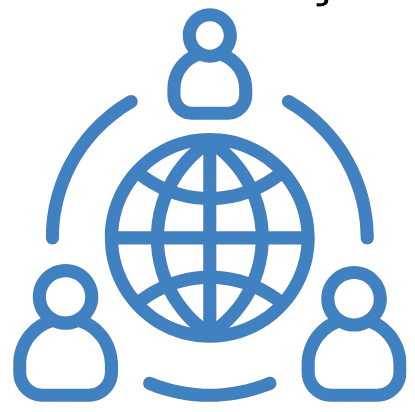
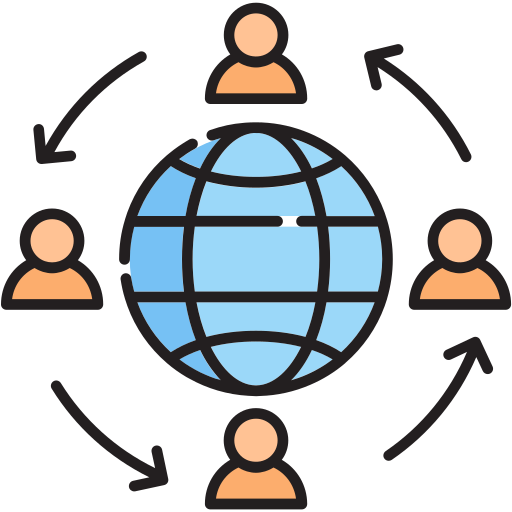
estilização - sobre

diff --git a/pagina_inicial/templates/sobre.html b/pagina_inicial/templates/sobre.html
@@ -1,294 +1,80 @@
+{% extends 'base.html' %}
 {% load static %}
-<!DOCTYPE html>
-<html lang="pt-BR">
-<head>
-    <meta charset="UTF-8">
-    <meta name="viewport" content="width=device-width, initial-scale=1.0">
-    <title>ConnecTerra - Sobre a Plataforma</title>
-    <link rel="preconnect" href="https://fonts.googleapis.com">
-    <link rel="preconnect" href="https://fonts.gstatic.com" crossorigin>
-    <link href="https://fonts.googleapis.com/css2?family=Inter:wght@400;500;600;700;800&display=swap" rel="stylesheet">
-    <style>
-        * {
-            margin: 0;
-            padding: 0;
-            box-sizing: border-box;
-        }
 
-        body {
-            font-family: 'Inter', sans-serif;
-            background: linear-gradient(180deg, #6FD666 0%, #4DB8A8 100%);
-            min-height: 100vh;
-            padding: 2rem 1rem;
-        }
+{% block content %}
+<div class="text-center mb-5">
+    <h1 class="display-4 fw-extrabold text-white text-uppercase" style="letter-spacing: 2px;">
+        Sobre a Plataforma
+    </h1>
+    <div class="mx-auto mt-2" style="width: 60px; height: 5px; background-color: white; border-radius: 10px;"></div>
+</div>
 
-        .container {
-            max-width: 1400px;
-            margin: 0 auto;
-        }
-
-        /* Header */
-        .header {
-            margin-bottom: 3rem;
-        }
-
-        .logo {
-            font-size: 2.5rem;
-            font-weight: 800;
-            color: white;
-            letter-spacing: -1px;
-            display: flex;
-            align-items: center;
-            gap: 0.5rem;
-            flex-wrap: wrap;
-        }
-
-        .logo-highlight {
-            background-color: white;
-            color: #6FD666;
-            padding: 0.25rem 1rem;
-            border-radius: 0.5rem;
-        }
-
-        .page-title {
-            font-size: 2.5rem;
-            font-weight: 300;
-            color: white;
-        }
-
-        /* Cards Grid */
-        .cards-grid {
-            display: grid;
-            grid-template-columns: repeat(auto-fit, minmax(320px, 1fr));
-            gap: 2rem;
-        }
-
-        .info-card {
-            background-color: white;
-            border-radius: 2rem;
-            padding: 2.5rem;
-            box-shadow: 0 10px 30px rgba(0, 0, 0, 0.1);
-            transition: all 0.3s ease;
-            display: flex;
-            flex-direction: column;
-            min-height: 500px;
-        }
-
-        .info-card:hover {
-            transform: translateY(-8px);
-            box-shadow: 0 20px 45px rgba(0, 0, 0, 0.15);
-        }
-
-        .card-title {
-            font-size: 1.5rem;
-            font-weight: 700;
-            color: #5BC55C;
-            margin-bottom: 1.5rem;
-            line-height: 1.3;
-        }
-
-        .card-description {
-            font-size: 1.05rem;
-            font-weight: 400;
-            color: #2C3E50;
-            line-height: 1.8;
-            margin-bottom: 2rem;
-            flex-grow: 1;
-        }
-
-        .card-icon-wrapper {
-            display: flex;
-            justify-content: center;
-            align-items: center;
-            margin-top: auto;
-            padding-top: 2rem;
-        }
-
-        .card-icon {
-            width: 180px;
-            height: 180px;
-            display: flex;
-            align-items: center;
-            justify-content: center;
-            font-size: 5rem;
-        }
-
-        .card-footer-text {
-            text-align: center;
-            font-size: 1rem;
-            font-weight: 700;
-            color: #3498DB;
-            text-transform: uppercase;
-            margin-top: 1rem;
-        }
-
-        /* Responsive */
-        @media (max-width: 1200px) {
-            .cards-grid {
-                grid-template-columns: repeat(2, 1fr);
-            }
-
-            .info-card:last-child {
-                grid-column: 1 / -1;
-                max-width: 600px;
-                margin: 0 auto;
-            }
-        }
-
-        @media (max-width: 768px) {
-            body {
-                padding: 1rem 0.5rem;
-            }
-
-            .logo {
-                font-size: 1.75rem;
-                flex-direction: column;
-                text-align: center;
-            }
-
-            .page-title {
-                font-size: 1.75rem;
-            }
-
-            .cards-grid {
-                grid-template-columns: 1fr;
-            }
-
-            .info-card {
-                min-height: auto;
-                padding: 2rem 1.5rem;
-            }
-
-            .info-card:last-child {
-                grid-column: auto;
-                max-width: 100%;
-            }
-
-            .card-title {
-                font-size: 1.25rem;
-            }
-
-            .card-description {
-                font-size: 0.95rem;
-            }
-
-            .card-icon {
-                width: 140px;
-                height: 140px;
-                font-size: 4rem;
-            }
-
-            .card-footer-text {
-                font-size: 0.9rem;
-            }
-        }
-
-        /* Animations */
-        @keyframes fadeInUp {
-            from {
-                opacity: 0;
-                transform: translateY(30px);
-            }
-            to {
-                opacity: 1;
-                transform: translateY(0);
-            }
-        }
-
-        .info-card {
-            animation: fadeInUp 0.6s ease-out backwards;
-        }
-
-        .info-card:nth-child(1) { animation-delay: 0.1s; }
-        .info-card:nth-child(2) { animation-delay: 0.2s; }
-        .info-card:nth-child(3) { animation-delay: 0.3s; }
-    </style>
-</head>
-<body>
-    <div class="container">
-        <!-- Header -->
-        <header class="header">
-            <div class="header-left">
-                <h1 class="logo">
-                    Connec<span class="logo-highlight">Terra</span>
-                </h1>
-                <span class="page-title">Sobre a Plataforma</span>
-            </div>
-            <a href="{% url 'pagina_inicial' %}">
-                <img src="{% static 'images/logo-ct-sf.png' %}" width='70' height='70' alt = 'Logo ConnecTerra'>
-            </a>
-        </header>
-
-        <!-- Cards Grid -->
-        <section class="cards-grid">
-            <!-- Card 1: O que é a ConnecTerra -->
-            <div class="info-card">
-                <h2 class="card-title">O que é a ConnecTerra?</h2>
-                <p class="card-description">
-                    A ConnecTerra, carinhosamente chamada de CT, é uma plataforma de 
-                    validação de Selos Verdes e listagem de pequenos e médios produtores 
-                    certificados.
+<div class="row g-4 mb-5">
+    <div class="col-md-4">
+        <div class="card h-100 border-0 rounded-5 p-4 shadow-lg hover-up">
+            <div class="card-body">
+                <h3 class="h5 fw-bold mb-4 text-uppercase color-brand">O que é a ConnecTerra?</h3>
+                <p class="text-muted">
+                    A ConnecTerra, carinhosamente chamada de <strong>CT</strong>, é uma plataforma de validação de <strong>Selos Verdes</strong> e listagem de pequenos e médios produtores certificados.
                 </p>
-                <div class="card-icon-wrapper">
-                    <div class="card-icon">
-                        <img src = "{% static 'images/fazendeiro_interrogacao.png' %}" width = '300' height = '300'
-                        alt = 'Imagem em pictogram de um fazendeiro com um celular na mão se questionando'>
-                    </div>
-                </div>
             </div>
-
-            <!-- Card 2: O que são selos verdes -->
-            <div class="info-card">
-                <h2 class="card-title">O que são selos verdes?</h2>
-                <p class="card-description">
-                    Também chamados de certificações verdes ou ecosselos, são certificações 
-                    de produtos, serviços ou empresas que buscam minimizar impactos ambientais 
-                    e utilizam práticas socialmente responsáveis.
-                </p>
-                <div class="card-icon-wrapper">
-                    <div class="card-icon">
-                    <img src = "{% static 'images/ecosselo.png' %}" width = '300' height = '250'
-                    alt = 'selo verde'>
-                    </div>
-                </div>
+            <div class="text-center mt-3">
+                <img src="{% static 'images/ajuda.png' %}" height="100" alt="Dúvida" class="opacity-75">
             </div>
-
-            <!-- Card 3: Qual o objetivo da CT -->
-            <div class="info-card">
-                <h2 class="card-title">Qual o objetivo da CT?</h2>
-                <p class="card-description">
-                    A CT possui critérios rígidos para a validação dos produtores, objetivando 
-                    a criação de uma rede de produtores com boas práticas e os catalogando para 
-                    que consumidores ou outros produtores da região possam formar uma rede de 
-                    contato, parcerias e serviços.
-                </p>
-                <div class="card-icon-wrapper">
-                    <div class="card-icon">
-                        <img src = "{% static 'images/rede_contatos.png' %}" width = '200' height = '200'
-                        alt = 'Pessoas ao redor de um globo, simbolizando conexão'>
-                    </div>
-                </div>
-                <a href="{% url 'pagina_inicial' %}" class="card-footer-text" style="text-decoration: none; display: block; cursor: pointer;">
-                    Pronto para fortalecer essa rede?
-                </a>
-            </div>
-        </section>
+        </div>
     </div>
 
-    <script>
-        // Animação de hover nos ícones
-        const cardIcons = document.querySelectorAll('.card-icon');
-        
-        cardIcons.forEach(icon => {
-            icon.addEventListener('mouseenter', function() {
-                this.style.transform = 'scale(1.1) rotate(5deg)';
-                this.style.transition = 'all 0.3s ease';
-            });
-            
-            icon.addEventListener('mouseleave', function() {
-                this.style.transform = 'scale(1) rotate(0deg)';
-            });
-        });
-    </script>
-</body>
-</html>
+    <div class="col-md-4">
+        <div class="card h-100 border-0 rounded-5 p-4 shadow-lg hover-up">
+            <div class="card-body">
+                <h3 class="h5 fw-bold mb-4 text-uppercase color-brand">O que são selos verdes?</h3>
+                <p class="text-muted">
+                    Também chamados de certificações verdes ou ecosselos, são certificações de produtos ou empresas que buscam minimizar impactos ambientais e utilizam práticas socialmente responsáveis.
+                </p>
+            </div>
+            <div class="text-center mt-3">
+                <img src="{% static 'images/selo-exemplo.png' %}" height="100" alt="Selo Verde">
+            </div>
+        </div>
+    </div>
+
+    <div class="col-md-4">
+        <div class="card h-100 border-0 rounded-5 p-4 shadow-lg hover-up">
+            <div class="card-body">
+                <h3 class="h5 fw-bold mb-4 text-uppercase color-brand">Qual o objetivo da CT?</h3>
+                <p class="text-muted">
+                    Possuímos critérios rígidos para a validação dos produtores, objetivando a criação de uma rede de contatos, parcerias e serviços para que consumidores e outros produtores possam formar uma rede sólida.
+                </p>
+            </div>
+            <div class="text-center mt-3">
+                <img src="{% static 'images/rede_contatos.png' %}" height="100" alt="Conexão">
+            </div>
+        </div>
+    </div>
+</div>
+
+<style>
+    .color-brand {
+        color: #5bb75b !important;
+    }
+
+    .hover-up { 
+        transition: all 0.3s ease; 
+    }
+    
+    .hover-up:hover { 
+        transform: translateY(-10px); 
+        box-shadow: 0 20px 40px rgba(0,0,0,0.2) !important; 
+    }
+
+    .card-body p {
+        font-size: 0.95rem;
+        line-height: 1.6;
+        text-align: justify;
+    }
+
+    .fw-extrabold {
+        font-weight: 800;
+    }
+</style>
+{% endblock %}
